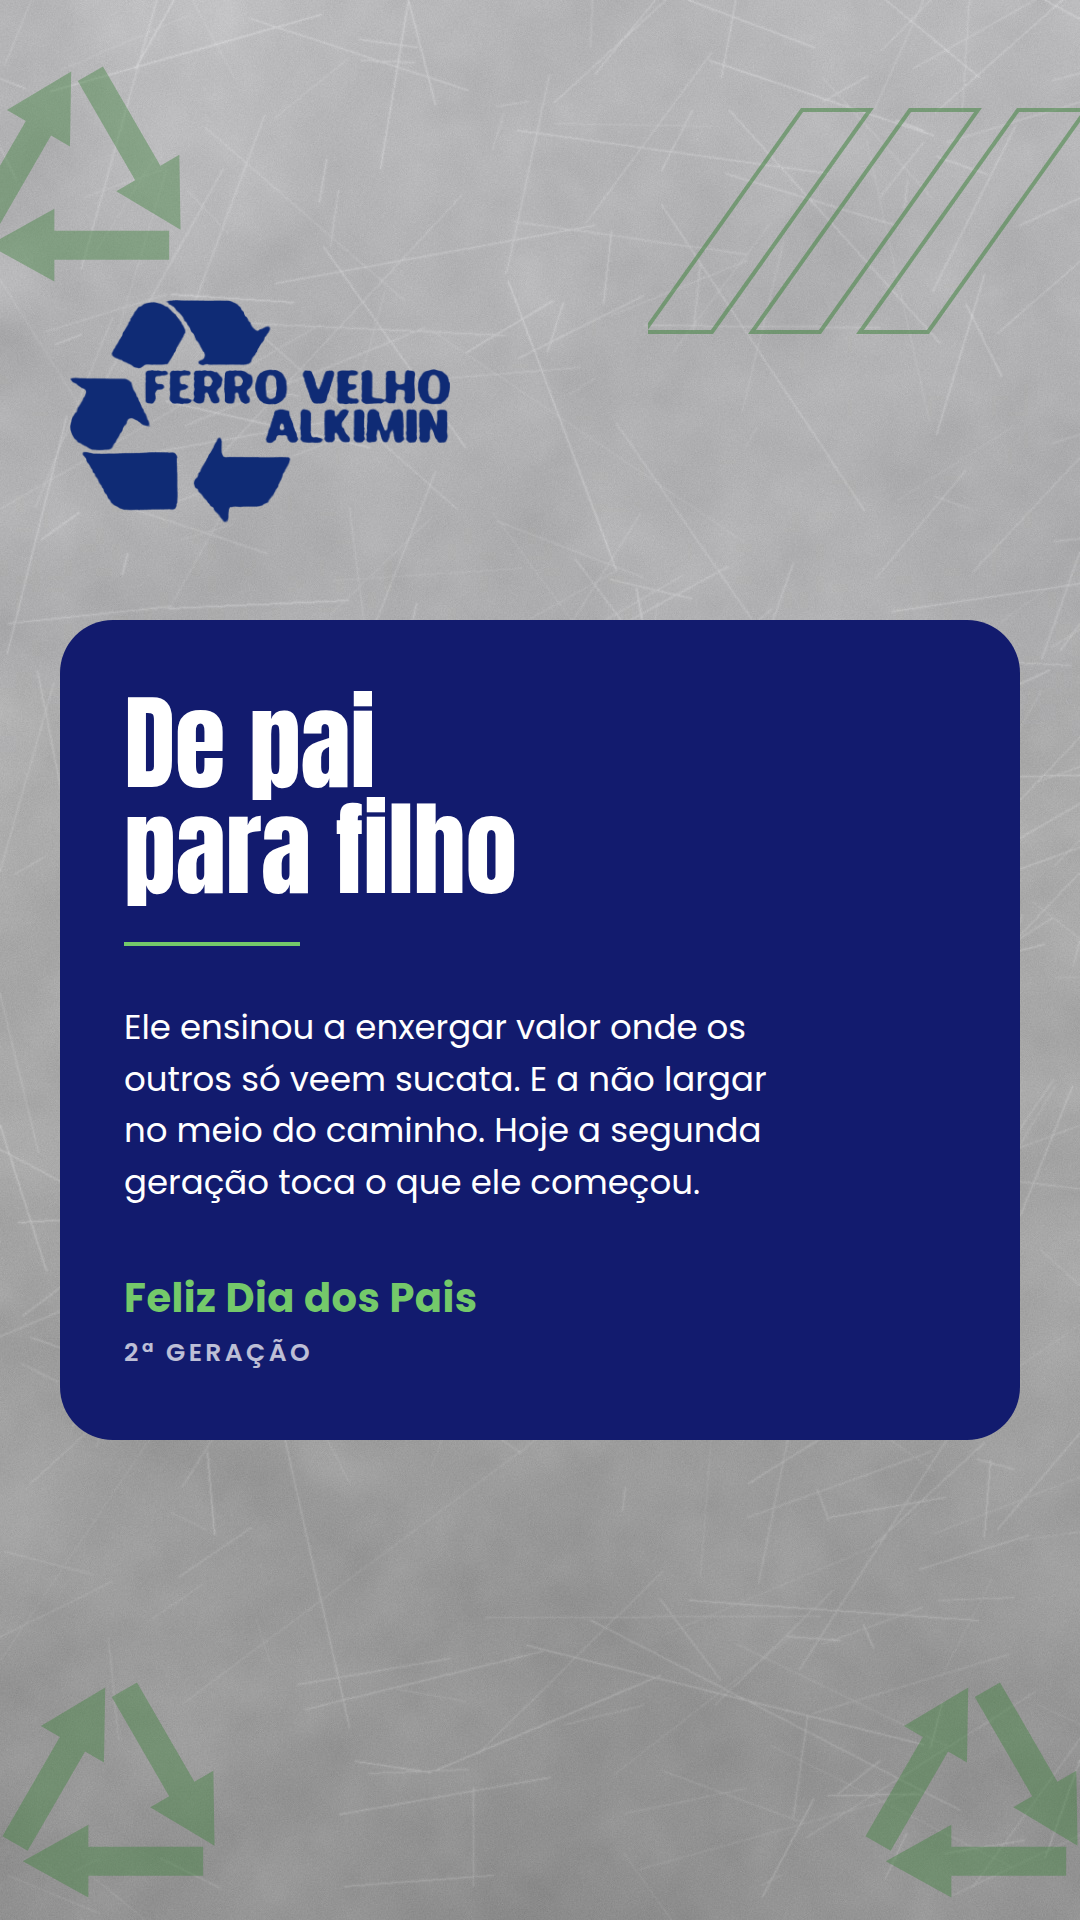
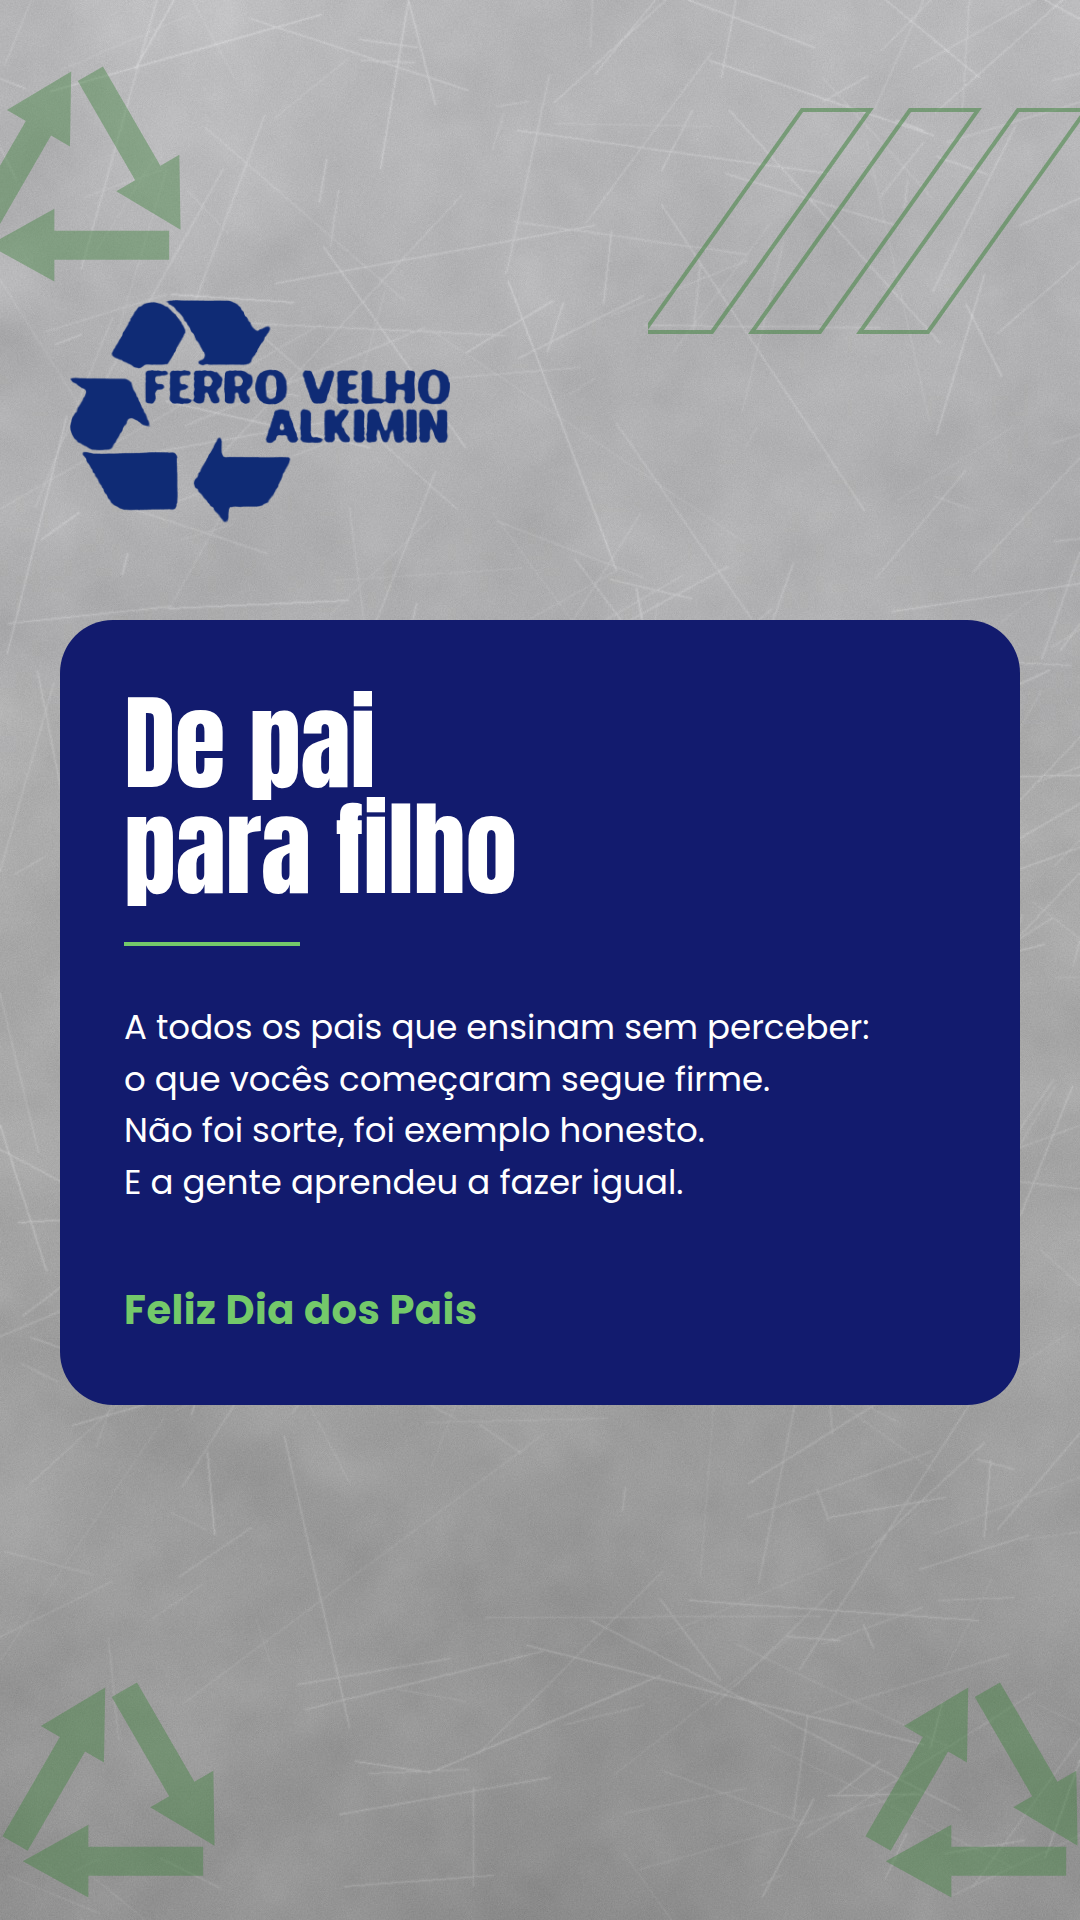
Address the Alkimin message to all fathers
Client picked the inclusive version and asked to drop the em dash. The copy
now speaks to fathers rather than about one — "vocês" instead of "ele" — which
suits a Stories the customer sees.

The wish is the copy's last line but renders as the existing green signature
rather than as a fifth line of body, so it appears once and gets the emphasis.
The "2ª geração" badge is gone: the succession is no longer the subject.

Changed region(s): [[0.1222, 0.5312, 0.7944, 0.625], [0.0611, 0.6562, 0.9472, 0.75]]

diff --git a/design/alkimin-dia-dos-pais.html b/design/alkimin-dia-dos-pais.html
@@ -21,7 +21,7 @@ body{display:flex;justify-content:center;align-items:flex-start;}
 .chev{left:648px;top:70px;width:452px;height:330px;}
 .logo{left:70px;top:300px;width:380px;}
 
-.card{left:60px;top:620px;width:960px;height:820px;
+.card{left:60px;top:620px;width:960px;height:785px;
       background:#121B6E;border-radius:53px;}
 
 .titulo{left:124px;top:690px;width:812px;
@@ -32,11 +32,8 @@ body{display:flex;justify-content:center;align-items:flex-start;}
 .msg{left:124px;top:1002px;width:812px;
      font-weight:400;font-size:34px;line-height:1.52;color:#FFFFFF;}
 
-.assina{left:124px;top:1268px;width:812px;
+.assina{left:124px;top:1280px;width:812px;
         font-weight:700;font-size:40px;color:#74C96A;letter-spacing:.5px;}
-.selo{left:124px;top:1334px;width:812px;
-      font-weight:600;font-size:25px;color:#FFFFFF;opacity:.72;
-      letter-spacing:3.4px;text-transform:uppercase;}
 </style>
 
 <div class="page" data-document-role="page" data-label="Dia dos Pais - Stories"
@@ -57,7 +54,6 @@ body{display:flex;justify-content:center;align-items:flex-start;}
   <div class="card"></div>
   <div class="titulo">De pai<br>para filho</div>
   <div class="rule"></div>
-  <div class="msg">Ele ensinou a enxergar valor onde os<br>outros só veem sucata. E a não largar<br>no meio do caminho. Hoje a segunda<br>geração toca o que ele começou.</div>
+  <div class="msg">A todos os pais que ensinam sem perceber:<br>o que vocês começaram segue firme.<br>Não foi sorte, foi exemplo honesto.<br>E a gente aprendeu a fazer igual.</div>
   <div class="assina">Feliz Dia dos Pais</div>
-  <div class="selo">2ª geração</div>
 </div>

diff --git a/design/src/build_alkimin_pais.py b/design/src/build_alkimin_pais.py
@@ -16,10 +16,10 @@ W, H = 1080, 1920
 TITULO = ['De pai', 'para filho']
 # Quebras manuais: o texto e o argumento da peca, entao o rio dele nao pode
 # ficar a cargo do navegador.
-MENSAGEM = ['Ele ensinou a enxergar valor onde os',
-            'outros só veem sucata. E a não largar',
-            'no meio do caminho. Hoje a segunda',
-            'geração toca o que ele começou.']
+MENSAGEM = ['A todos os pais que ensinam sem perceber:',
+            'o que vocês começaram segue firme.',
+            'Não foi sorte, foi exemplo honesto.',
+            'E a gente aprendeu a fazer igual.']
 ASSINA = 'Feliz Dia dos Pais'
 
 # ------------------------------------------------------------------- paleta
@@ -66,7 +66,7 @@ body{{display:flex;justify-content:center;align-items:flex-start;}}
 .chev{{left:648px;top:70px;width:452px;height:330px;}}
 .logo{{left:70px;top:300px;width:380px;}}
 
-.card{{left:60px;top:620px;width:960px;height:820px;
+.card{{left:60px;top:620px;width:960px;height:785px;
       background:{CARD};border-radius:53px;}}
 
 .titulo{{left:124px;top:690px;width:812px;
@@ -77,11 +77,8 @@ body{{display:flex;justify-content:center;align-items:flex-start;}}
 .msg{{left:124px;top:1002px;width:812px;
      font-weight:400;font-size:34px;line-height:1.52;color:{WHITE};}}
 
-.assina{{left:124px;top:1268px;width:812px;
+.assina{{left:124px;top:1280px;width:812px;
         font-weight:700;font-size:40px;color:{GREEN};letter-spacing:.5px;}}
-.selo{{left:124px;top:1334px;width:812px;
-      font-weight:600;font-size:25px;color:{WHITE};opacity:.72;
-      letter-spacing:3.4px;text-transform:uppercase;}}
 </style>
 
 <div class="page" data-document-role="page" data-label="Dia dos Pais - Stories"
@@ -104,7 +101,6 @@ body{{display:flex;justify-content:center;align-items:flex-start;}}
   <div class="rule"></div>
   <div class="msg">{BR.join(MENSAGEM)}</div>
   <div class="assina">{ASSINA}</div>
-  <div class="selo">2ª geração</div>
 </div>
 """
 

diff --git a/design/README-alkimin-dia-dos-pais.md b/design/README-alkimin-dia-dos-pais.md
@@ -12,19 +12,26 @@ elemento de assinatura; o que muda dentro dele é o conteúdo.
 
 > **De pai para filho**
 >
-> Ele ensinou a enxergar valor onde os outros só veem sucata. E a não largar no meio do
-> caminho. Hoje a segunda geração toca o que ele começou.
+> A todos os pais que ensinam sem perceber:
+> o que vocês começaram segue firme.
+> Não foi sorte, foi exemplo honesto.
+> E a gente aprendeu a fazer igual.
 >
-> **Feliz Dia dos Pais** · 2ª geração
+> **Feliz Dia dos Pais**
 
-Escrito na voz do ofício — concreto e direto. O registro editorial e econômico usado na
-peça da Marca Registrada (`README-dia-dos-pais.md`) soaria falso aqui: são clientes com
-públicos e tons opostos, ainda que a data seja a mesma.
+A mensagem fala **com** os pais, não *sobre* um pai — daí o "vocês". Para um Stories que o
+cliente vê, endereçar funciona melhor do que narrar.
 
-A frase cobre os três pontos do briefing sem listá-los: **foco** ("enxergar valor onde os
-outros só veem sucata"), **persistência** ("não largar no meio do caminho") e **legado**
-("a segunda geração toca o que ele começou"). O trocadilho está em *sucata* — a palavra
-que descreve o material do negócio é a mesma que descreve o que os outros deixam passar.
+O desejo é a última linha da copy, mas entra na peça como a assinatura verde, em corpo
+maior. Assim ele aparece uma vez só e ainda ganha destaque.
+
+Escrito na voz do ofício — concreto e direto, vocabulário simples. O registro editorial e
+econômico usado na peça da Marca Registrada (`README-dia-dos-pais.md`) soaria falso aqui:
+são clientes com públicos e tons opostos, ainda que a data seja a mesma.
+
+Nada de "sucata", "ferro velho" ou "segunda geração" no texto: o legado aparece por dentro
+("o que vocês começaram segue firme"), não anunciado. Persistência e exemplo estão ditos
+sem virar palavra de ordem.
 
 ## Arquivos
 
@@ -43,14 +50,13 @@ versionados para os outros posts da Alkimin — nada de novo foi criado.
 | Elemento | Posição |
 | --- | --- |
 | Logo | x 70, y 300, largura 380 |
-| Card azul | x 60, y 620, 960×820, raio 53 |
+| Card azul | x 60, y 620, 960×785, raio 53 |
 | Título (Anton 104 px) | x 124, y 690 |
 | Filete verde | x 124, y 942, 176×4 |
 | Mensagem (Poppins 400, 34 px) | x 124, y 1002 |
-| Assinatura (Poppins 700, 40 px) | x 124, y 1268 |
-| Selo (Poppins 600, 25 px) | x 124, y 1334 |
+| Assinatura (Poppins 700, 40 px) | x 124, y 1280 |
 
-O card termina em y=1440, bem acima da barra de resposta do Instagram. As marcas d'água
+O card termina em y=1405, bem acima da barra de resposta do Instagram. As marcas d'água
 inferiores (y=1680) ficam atrás dela de propósito — são textura, não informação.
 
 ## Regenerar
